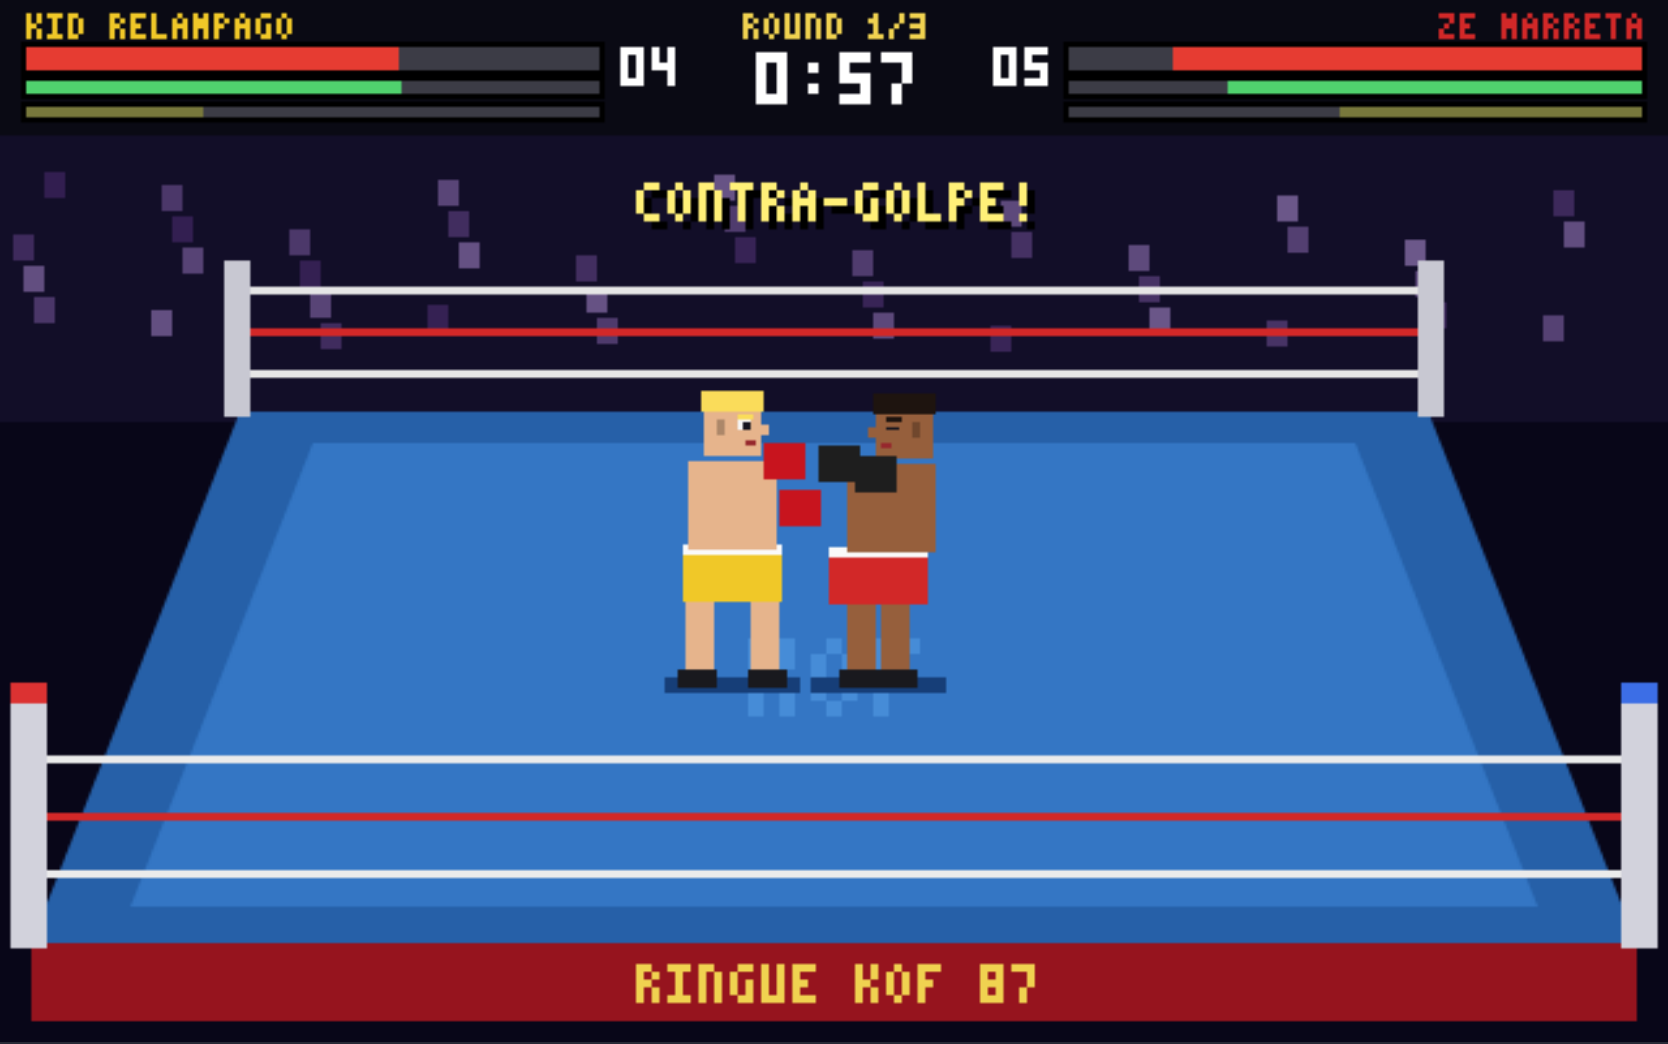
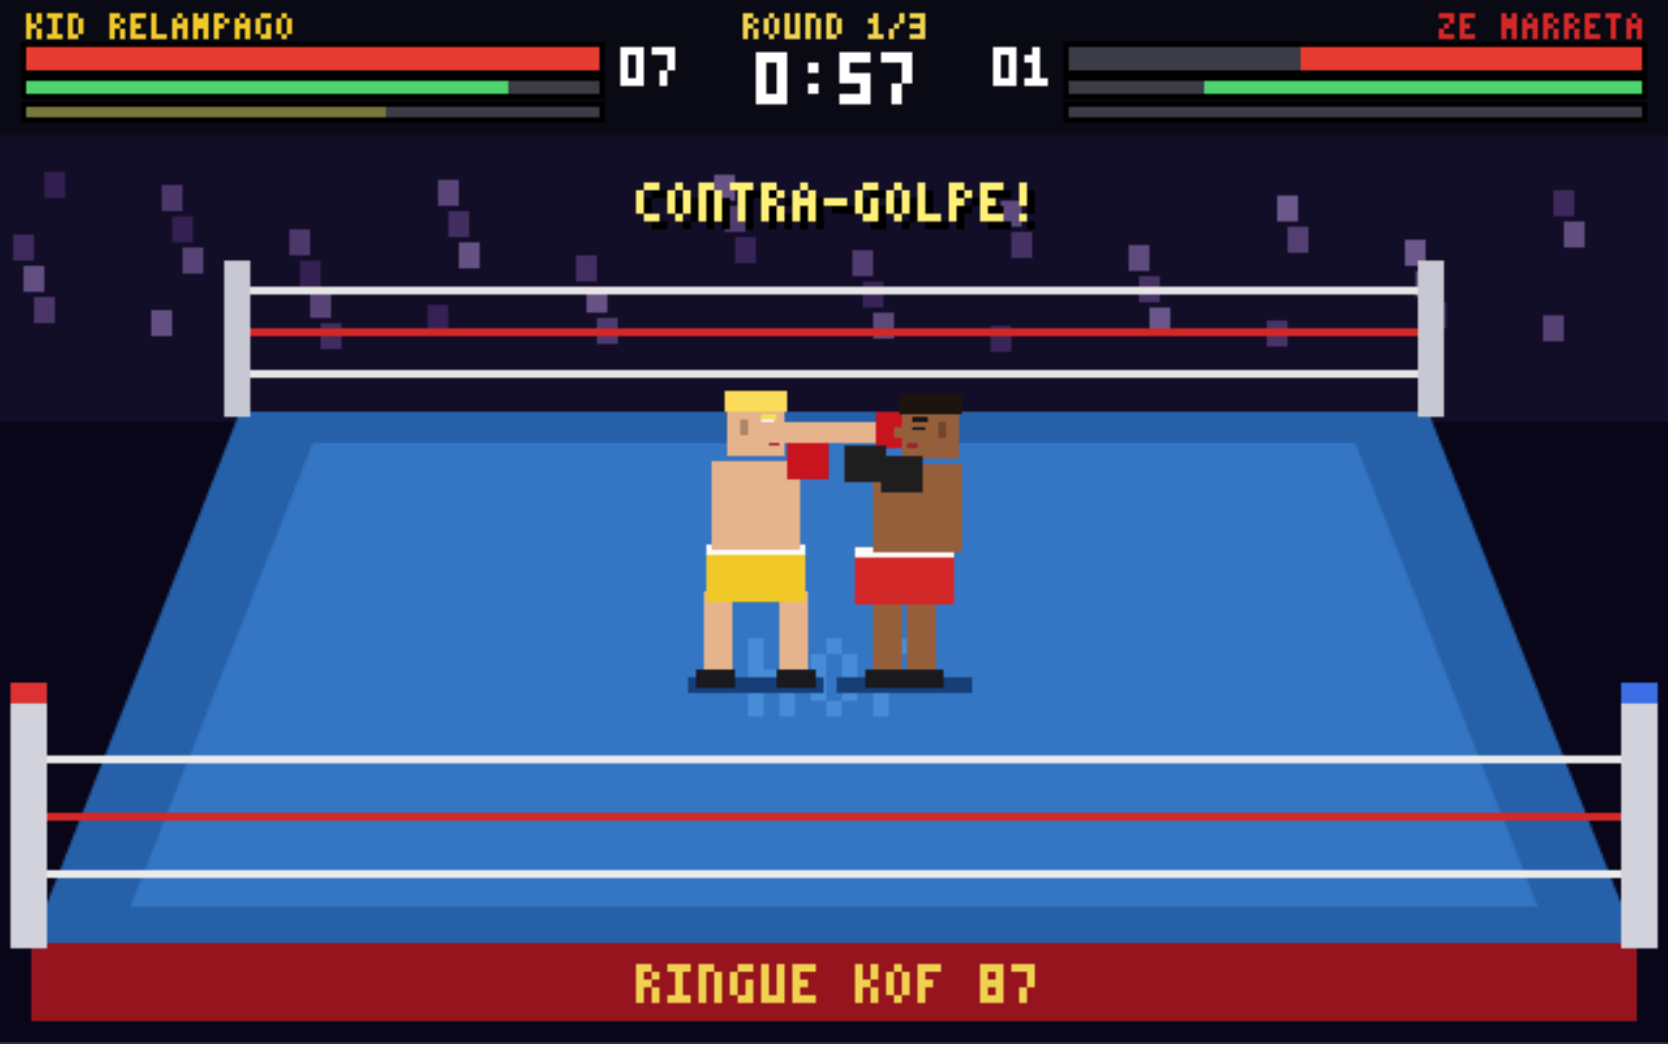
README: novas capturas (luta, apresentacao, nocaute, menu) e secao sobre o visual dos lutadores

diff --git a/README.md b/README.md
@@ -9,7 +9,11 @@ Todo o jogo é Kof: lógica, ringue, placar e até a fonte
 em pixels (3x5), desenhada pelo próprio programa num `Canvas` do `kof.ui`.
 Sprites, nomes e arte são inspirados no espírito do cartucho.
 
-![Luta no Ringue KOF 87](docs/luta.png)
+![Luta no Ringue KOF 87: os dois lutadores de lado trocando golpes](docs/luta.png)
+
+| Apresentação do round | Nocaute e contagem do juiz |
+|---|---|
+| ![Os dois lutadores de frente na apresentação do round](docs/apresentacao.png) | ![Lutador nocauteado, com olhos em X, e o juiz contando](docs/nocaute.png) |
 
 ![Menu do Ringue KOF 87](docs/menu.png)
 
@@ -67,6 +71,19 @@ Enter = lutar / nova luta · P = pausa · N = som · botões na tela para mouse/
 - **Guarda, contra-golpe** (acertar quem está armando) e golpe no **ponto fraco**.
 - **Rounds de 1 minuto** (3 ou 7), intervalo no corner e decisão por pontos.
 - **CPU em 3 níveis** (fácil, normal, campeão) e modo **2 jogadores** no mesmo teclado.
+
+## Visual dos lutadores
+
+Os boxeadores são desenhados em pixels pelo próprio programa, e o rosto
+muda conforme a posição de cada um no ringue:
+
+- **De lado** (na troca de golpes): um olho, com a pupila virada para o
+  adversário, nariz, boca e orelha.
+- **De frente** (na apresentação do round, andando para a câmera ou com o
+  adversário à frente): dois olhos, sobrancelhas, nariz e boca; o vencedor sorri.
+- **De costas** (andando para o fundo do ringue): só a nuca, com cabelo.
+- Eles **piscam** de vez em quando, **apertam os olhos** quando levam um
+  golpe e ficam com **olhos em X** no nocaute.
 
 ## Som
 
